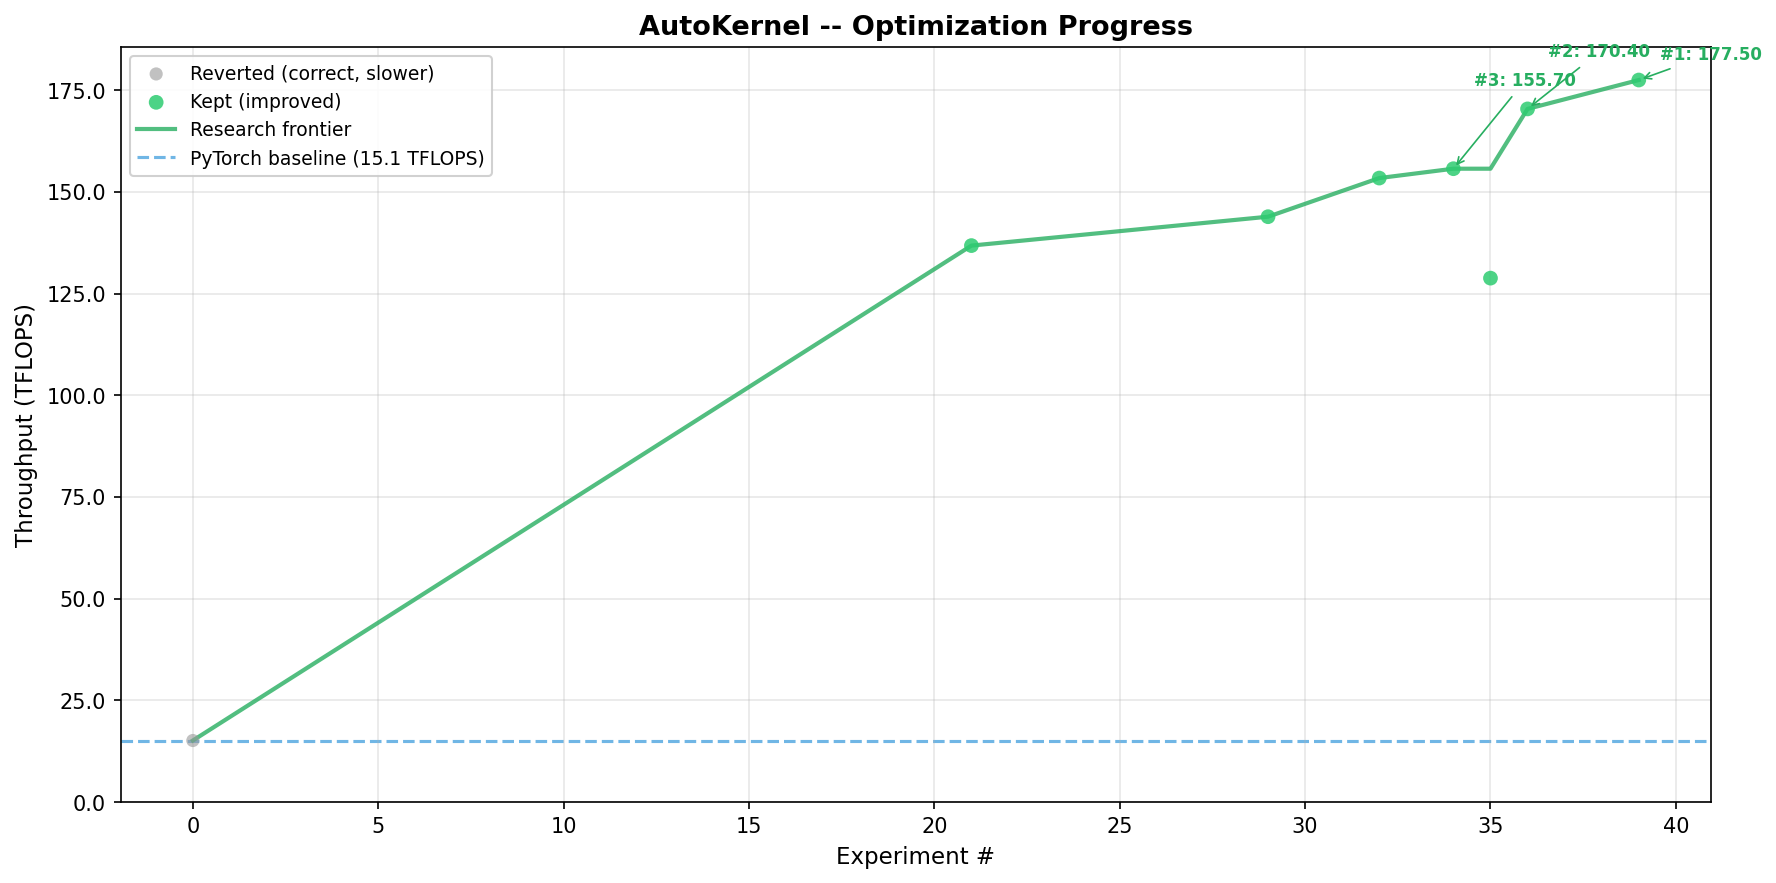
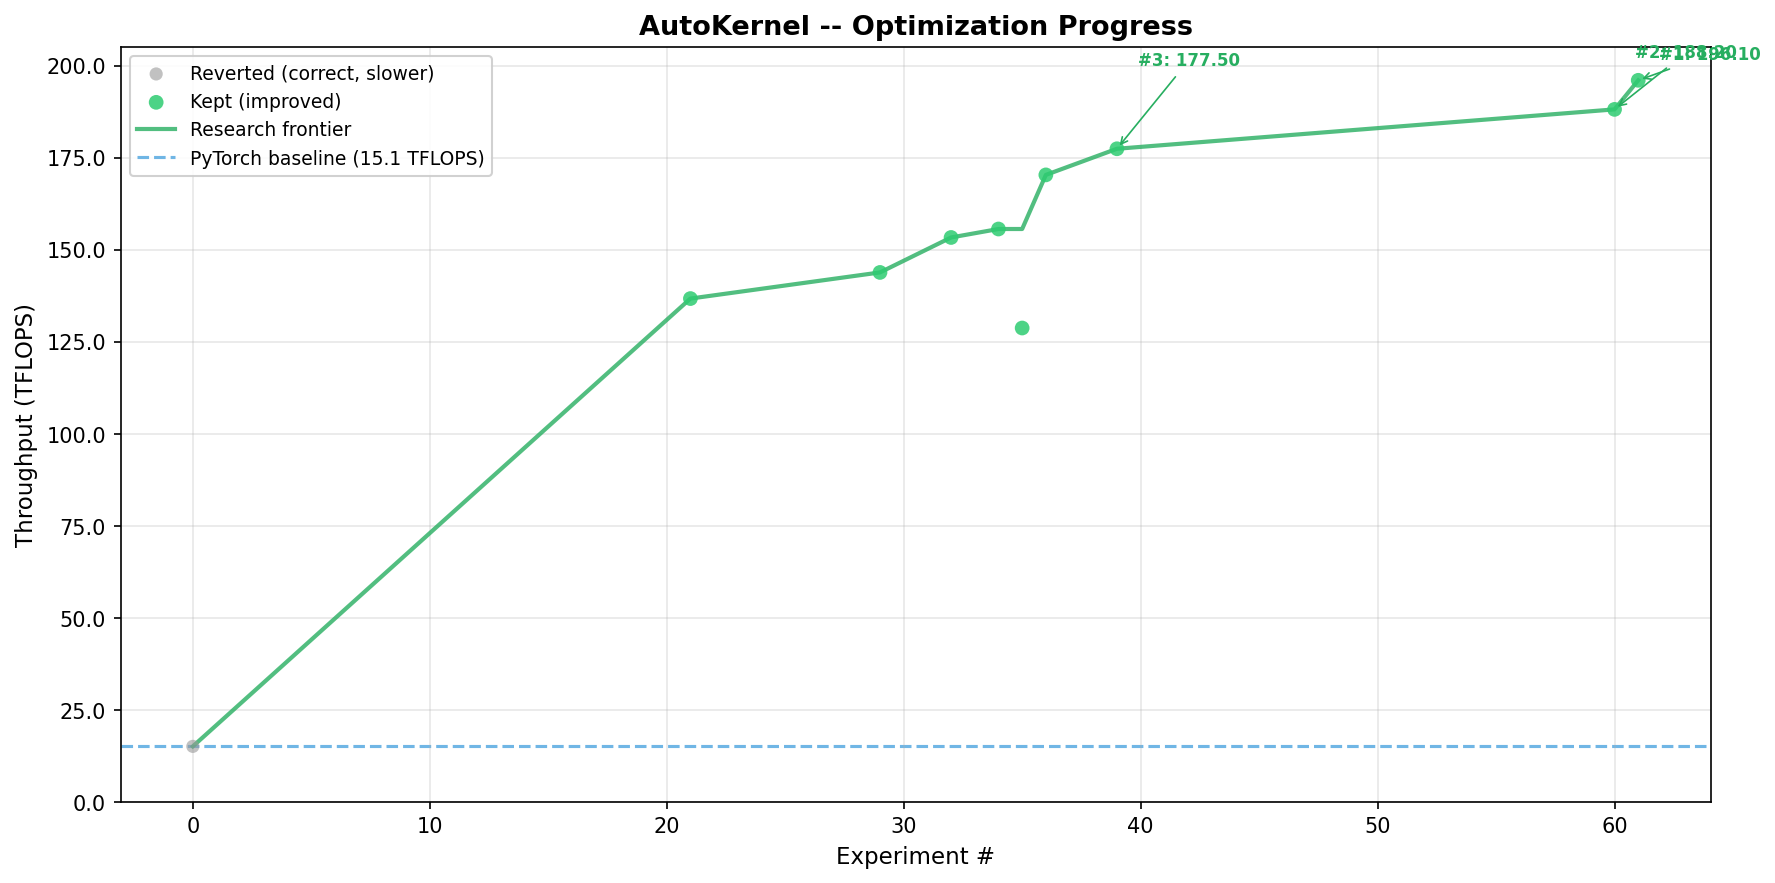
Day 1 status: 196 TFLOPS (46.8% peak), 3.04x vs PyTorch
15.1 → 196.1 TFLOPS across 61 experiments. Key breakthrough was
splitting dequant (Triton) from matmul (cuBLAS) — cuBLAS FP16 at
215 TFLOPS beats fused Triton kernel. NT layout via F.linear adds
another 4%.

diff --git a/kernel.py b/kernel.py
@@ -65,7 +65,7 @@ def dequant_kernel(
     tl.store(w_ptrs, w_dequant, mask=k_mask[:, None] & n_mask[None, :])
 
 
-_buf = {}
+_wt_buf = {}
 
 
 def kernel_fn(
@@ -80,11 +80,11 @@ def kernel_fn(
     M, K = activation.shape
     N = packed_weights.shape[1]
 
-    # Dequantize into transposed layout [N, K] for F.linear
-    key = (K, N, activation.dtype)
-    if key not in _buf:
-        _buf[key] = torch.empty((N, K), device=activation.device, dtype=activation.dtype)
-    Wt = _buf[key]
+    # Pre-allocate weight buffer
+    wkey = (K, N, activation.dtype)
+    if wkey not in _wt_buf:
+        _wt_buf[wkey] = torch.empty((N, K), device=activation.device, dtype=activation.dtype)
+    Wt = _wt_buf[wkey]
 
     def dequant_grid(META):
         return (triton.cdiv(K, META['BLOCK_SIZE_K']), triton.cdiv(N, META['BLOCK_SIZE_N']))
@@ -95,7 +95,6 @@ def kernel_fn(
         packed_weights.stride(0), packed_weights.stride(1),
         scales.stride(0), scales.stride(1),
         zeros.stride(0), zeros.stride(1),
-        # Store transposed: K→stride_wn (column), N→stride_wk (row)
         1, K,
         QUANT_GROUP_SIZE=group_size,
     )

diff --git a/DAY1_STATUS.md b/DAY1_STATUS.md
@@ -1,0 +1,62 @@
+# AutoKernel Day 1 Status
+
+## Task
+Optimize a W4A16 quantized matrix multiplication Triton kernel for Qwen3.5:35B model shapes on RTX 5090 (Blackwell).
+
+## Results
+| Metric | Baseline | Current Best | Improvement |
+|--------|----------|-------------|-------------|
+| Throughput | 15.1 TFLOPS | 196.1 TFLOPS | **13.0x** |
+| vs PyTorch | 0.23x | 3.04x | **13.2x** |
+| % Peak (419 TFLOPS) | 3.6% | 46.8% | |
+| Latency (large shape) | 7095 µs | 548 µs | **12.9x** |
+
+## Key Discoveries (chronological)
+
+1. **Autotune + L2 swizzle** (exp 21): 15→137 TFLOPS. Tile reordering for L2 cache locality + broad config sweep.
+2. **Two-level K tiling** (exp 29): 137→144. Hoist scale/zero loads outside inner K loop.
+3. **Persistent kernel** (exp 32): 144→153. Cap grid to 680 programs (4x SMs), outer tile loop.
+4. **Flat K loop** (exp 36): 155→170. Remove nested group loop — Triton's software pipelining works better with a single flat loop.
+5. **Constexpr group_size** (exp 39): 170→177. Make QUANT_GROUP_SIZE a tl.constexpr for compile-time division optimization.
+6. **Split dequant + cuBLAS** (exp 60): 177→188. **Paradigm shift**: separate the INT4→FP16 dequantization (Triton, 53µs) from the matmul (cuBLAS, 500µs). cuBLAS FP16 matmul at 215 TFLOPS beats fused Triton kernel (175 TFLOPS) even with dequant overhead.
+7. **Transposed dequant + F.linear** (exp 61): 188→196. Store dequanted weights as [N,K] and use F.linear (cuBLAS NT gemm) instead of torch.mm (NN gemm). NT layout is ~4% faster.
+
+## Lessons Learned
+
+### What worked
+- **Autotune broadly, then narrow**: Start with many configs, let the autotuner find winners, then focus configs around them.
+- **Persistent kernels**: For shapes with many tiles, the persistent pattern with L2 swizzle is consistently beneficial.
+- **Flat loops over nested loops**: Triton's compiler pipelines single loops much better than nested ones. Even if a two-level loop is "smarter" (hoisting invariant loads), the flat loop wins because the compiler can overlap loads across iterations.
+- **Constexpr parameters**: Making runtime values into tl.constexpr lets the compiler turn divides into shifts and eliminate dead code.
+- **Separation of concerns**: The biggest leap came from NOT trying to fuse everything. cuBLAS's FP16 matmul is highly optimized (SASS-level, TMA loads, warp specialization) — beating it with Triton for pure matmul is extremely hard. By splitting dequant and matmul, each can use its best implementation.
+- **NT matmul layout**: cuBLAS strongly prefers NT (A @ B^T) over NN (A @ B) for these shapes.
+
+### What didn't work
+- **Larger BLOCK_SIZE_K** (128): Causes register spill, always regressed.
+- **Wider BLOCK_SIZE_N** (256): Too much register pressure at 8 warps.
+- **Fewer programs**: 170 (1x SM) or 340 (2x SM) are too few — 680 (4x SM) is the sweet spot.
+- **Eviction policy hints**: `evict_first`/`evict_last` on loads had no measurable effect.
+- **`max_num_imprecise_acc`**: No performance difference on Blackwell.
+- **Non-persistent 2D grid**: Removing the persistent loop always regressed.
+- **Reordering loads**: Compiler handles scheduling; source order doesn't matter much.
+- **CUDA graphs**: The copy_ overhead for input buffers negates any launch overhead savings.
+- **FP8 matmul**: 2x faster matmul BUT correctness fails — FP8 E4M3 (3 mantissa bits) can't represent dequanted weights accurately enough. Even row-wise scaling only gets 5% within tolerance.
+- **Higher num_stages** (5-6): More pipeline stages cause register spill at these tile sizes.
+
+### Architecture insights
+- **RTX 5090 Blackwell**: 170 SMs, 419 TFLOPS FP16 peak, 1792 GB/s bandwidth. Ridge point at 234 FLOP/byte.
+- **W4A16 is compute-bound**: Arithmetic intensity ~1920 FLOP/byte, well above ridge point. The bottleneck is purely the tensor core utilization and dequant ALU overhead.
+- **Dequant overhead is inherent**: The INT4 unpacking (shift, mask, cast, subtract, multiply) adds ~5 ALU ops per weight element that must complete before the tensor core can run, creating pipeline bubbles.
+- **cuBLAS ceiling**: Even cuBLAS only achieves ~215 TFLOPS (51% of peak) for M=2048 FP16 matmul. This suggests hardware-level constraints (warp scheduling, memory subsystem) limit utilization.
+
+## Current State
+- kernel.py: Triton dequant kernel + F.linear (cuBLAS NT gemm)
+- 196 TFLOPS, 46.8% of peak, 3.04x vs PyTorch
+- Decode (M=1): 82µs, 14.5x vs PyTorch
+
+## What to try next
+- Optimize dequant kernel further (currently 50µs, theoretical minimum 37µs at bandwidth limit)
+- Profile with Nsight Compute to find actual bottlenecks in cuBLAS matmul
+- Try `torch.compile` or custom cuBLAS workspace settings
+- Explore streaming overlap: pipeline dequant of chunk N+1 with matmul of chunk N
+- Consider INT8 tensor cores with dynamic activation quantization (risky for correctness)
